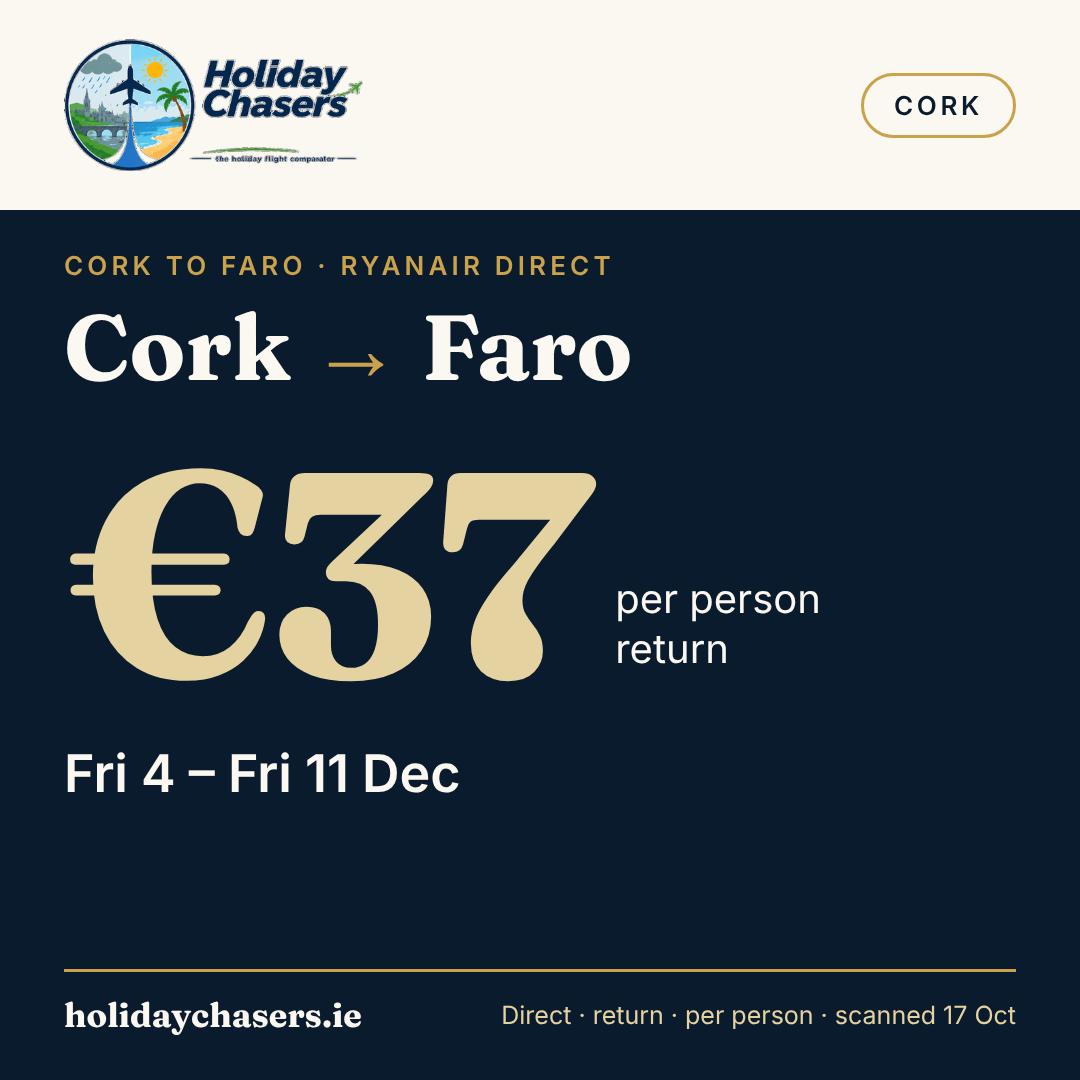
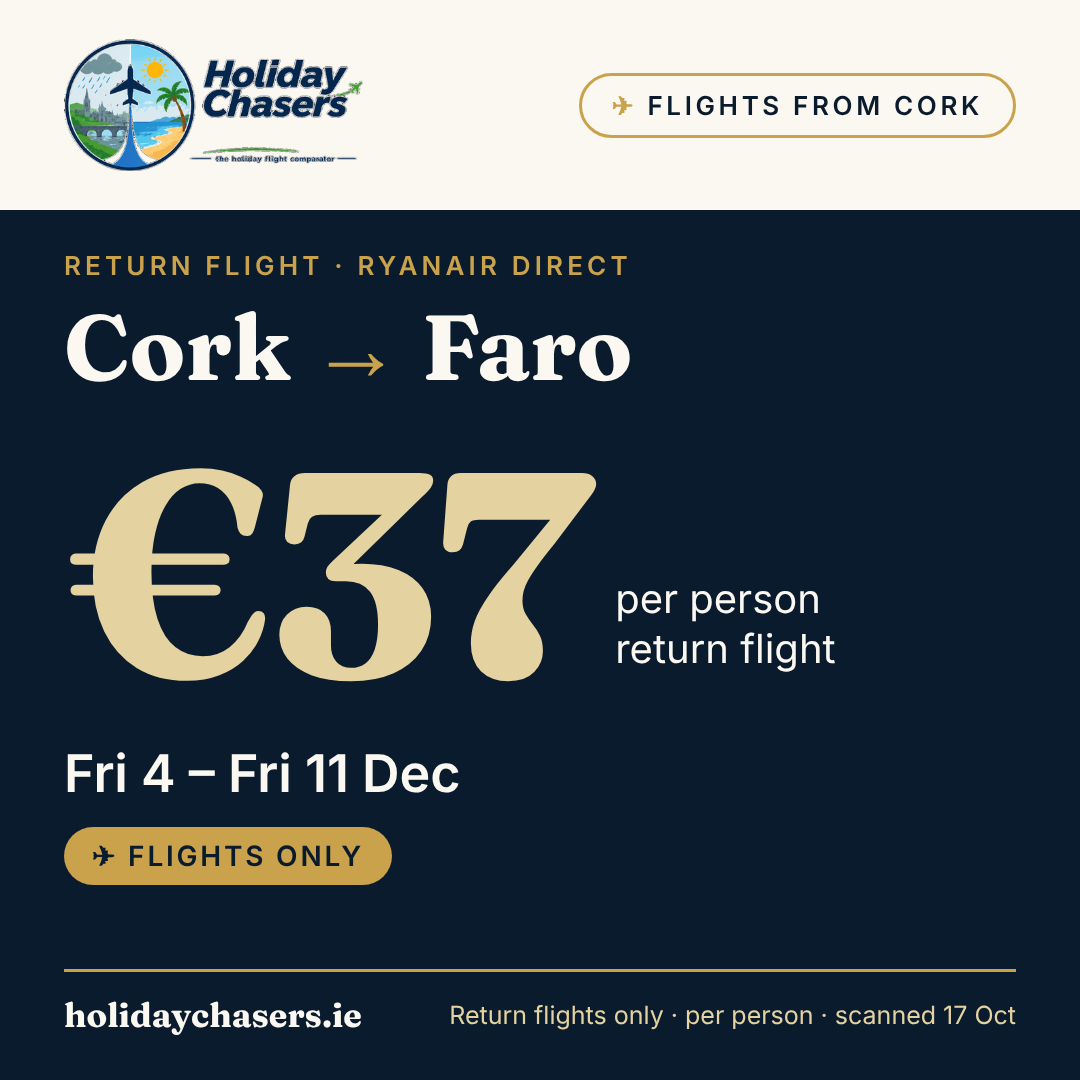
Social posters: city photos (fetched from Wikipedia, cached), 'flights only' labelling
Claude-Session: https://claude.ai/code/session_01EtrwGZWNdJyufdjgrD8G9R

diff --git a/social/generate_posts.py b/social/generate_posts.py
@@ -9,7 +9,7 @@ Run after refresh_deals.py. Needs Playwright + Chromium to render posters
 (pip install playwright && playwright install chromium).
 Nothing is posted automatically: the Chrome extension (or you) posts.
 """
-import json, os, datetime as dt, html, shutil, hashlib
+import json, os, re, datetime as dt, html, shutil, hashlib, io
 
 ROOT = os.path.dirname(os.path.abspath(__file__))
 REPO = os.path.dirname(ROOT)
@@ -17,6 +17,7 @@ CACHE = os.path.join(REPO, "deals_cache.json")
 OUT = os.path.join(ROOT, "out")
 BUILD = os.path.join(ROOT, "_build")
 SITE = "holidaychasers.ie"
+CITIES = os.path.join(ROOT, "assets", "cities")   # <CODE>.jpg; drop your own photo here to override
 
 ORIGIN = {"ORK": "Cork", "DUB": "Dublin"}
 SUN = {"ACE", "LPA", "FUE", "TFS", "FAO", "AGP", "ALC", "PMI", "MLA", "SVQ", "VLC"}
@@ -79,6 +80,56 @@ def link(c):
     return f"{SITE}/?dest={c['code']}&from={c['ap']}&utm_source=facebook&utm_medium=social"
 
 
+# ── city photos ─────────────────────────────────────────────────────────────
+def wiki_titles():
+    """code -> Wikipedia article title, read from app.js so there is one source of truth."""
+    try:
+        js = open(os.path.join(REPO, "app.js"), encoding="utf-8").read()
+        block = js[js.index("const CITY_WIKI"):]
+        block = block[:block.index("};")]
+        return dict(re.findall(r'([A-Z]{3}):"([^"]+)"', block))
+    except Exception:
+        return {}
+
+
+def city_photo(code, city):
+    """Path to a cached photo for this destination, downloading from Wikipedia once. None if unavailable."""
+    path = os.path.join(CITIES, f"{code}.jpg")
+    if os.path.exists(path):
+        return path
+    try:
+        import requests
+        from PIL import Image
+        title = wiki_titles().get(code) or city.replace(" ", "_")
+        hdr = {"User-Agent": "HolidayChasersBot/1.0 (https://holidaychasers.ie; info@holidaychasers.ie)"}
+        r = requests.get("https://en.wikipedia.org/api/rest_v1/page/summary/" + requests.utils.quote(title, safe="_,()"),
+                         headers=hdr, timeout=20)
+        r.raise_for_status()
+        j = r.json()
+        src = (j.get("thumbnail") or {}).get("source") or (j.get("originalimage") or {}).get("source")
+        if not src:
+            return None
+        src = re.sub(r"/\d+px-", "/1280px-", src)
+        img = requests.get(src, headers=hdr, timeout=30)
+        img.raise_for_status()
+        im = Image.open(io.BytesIO(img.content)).convert("RGB")
+        if im.width < 700:                       # too small to look good full-bleed
+            return None
+        im.thumbnail((1280, 1280))
+        os.makedirs(CITIES, exist_ok=True)
+        im.save(path, quality=82, optimize=True)
+        print("  photo:", code, title, im.size)
+        return path
+    except Exception as ex:
+        print("  no photo for", code, "-", ex)
+        return None
+
+
+def bg_url(code, city):
+    p = city_photo(code, city)
+    return None if not p else "file://" + p
+
+
 # ── captions ────────────────────────────────────────────────────────────────
 def pickv(seed, options):
     h = int(hashlib.md5(seed.encode()).hexdigest(), 16)
@@ -88,20 +139,20 @@ def pickv(seed, options):
 def caption_hero(c, today):
     o = ORIGIN[c["ap"]]
     tag = pickv(c["code"] + str(today), [
-        "Direct, return, per person.",
+        "Direct flights, per-person fares.",
         "Real fare, checked this week.",
         "Book with the airline in a couple of clicks.",
     ])
-    return (f"From {o}: {c['city']} from €{c['price']} return per person, {fmt_range(c['dep'], c['ret'])}. "
-            f"{tag} {link(c)}")
+    return (f"✈ Return flights from {o} to {c['city']} from €{c['price']} per person, {fmt_range(c['dep'], c['ret'])}. "
+            f"Flights only. {tag} {link(c)}")
 
 
 def caption_cards(label, cs, today):
     a, b = cs[0], cs[1]
     o = ORIGIN[a["ap"]]
-    return (f"{label} from {o}: {a['city']} from €{a['price']} return per person, {fmt_range(a['dep'], a['ret'])}. "
+    return (f"✈ {label}, return flights from {o}: {a['city']} from €{a['price']} per person, {fmt_range(a['dep'], a['ret'])}. "
             f"Or {b['city']} from €{b['price']} ({fmt_range(b['dep'], b['ret'])}). "
-            f"Fares change, so check the live deal: {link(a)}")
+            f"Flights only. Fares change, so check the live deal: {link(a)}")
 
 
 # ── posters ─────────────────────────────────────────────────────────────────
@@ -126,14 +177,25 @@ body{width:1080px;height:1080px;background:#0A1B2E;font-family:Inter,sans-serif;
 .card .c{font:700 58px/1.1 Fraunces,serif}.card .c div{font:400 30px Inter;color:#E4D2A0;margin-top:8px}
 .card .p{font:700 120px/1 Fraunces,serif;color:#E4D2A0;text-align:right}.card .p div{font:400 24px Inter;color:#FBF8F1;margin-top:4px}
 .h{font:700 78px/1.08 Fraunces,serif;margin-top:20px}
+.photo{position:absolute;left:0;right:0;top:210px;bottom:0;background-size:cover;background-position:center}
+.shade{position:absolute;left:0;right:0;top:210px;bottom:0;background:linear-gradient(180deg,rgba(10,27,46,.55) 0%,rgba(10,27,46,.35) 35%,rgba(10,27,46,.88) 78%,rgba(10,27,46,.96) 100%)}
+.main,.foot{z-index:2}
+.pill i{font-style:normal;color:#C9A24B}
+.badge{display:inline-block;align-self:flex-start;margin-top:22px;font:600 28px Inter;letter-spacing:.1em;text-transform:uppercase;background:#C9A24B;color:#0A1B2E;border-radius:50px;padding:12px 28px}
+.card{position:relative;overflow:hidden;background-size:cover;background-position:center}
+.card:before{content:"";position:absolute;inset:0;background:linear-gradient(90deg,rgba(10,27,46,.94) 0%,rgba(10,27,46,.7) 55%,rgba(10,27,46,.5) 100%)}
+.card>*{position:relative}
+.credit{font:400 17px Inter;color:#E4D2A0;opacity:.75;position:absolute;right:64px;bottom:12px;z-index:2}
 """
 
 
-def page(note, ctx, body):
+def page(note, ctx, body, bg=None):
+    photo = f"<div class=photo style=\"background-image:url('{bg}')\"></div><div class=shade></div>" if bg else ""
+    credit = "<div class=credit>Photo: Wikimedia Commons</div>" if bg else ""
     return (f"<!doctype html><meta charset=utf-8><style>{CSS}</style><body>"
-            f"<div class=top><img src=../assets/logo.png><div class=pill>{html.escape(ctx)}</div></div>"
-            f"<div class=main>{body}</div>"
-            f"<div class=foot><b>{SITE}</b><span>{html.escape(note)}</span></div></body>")
+            f"<div class=top><img src=../assets/logo.png><div class=pill><i>✈</i> Flights from {html.escape(ctx)}</div></div>"
+            f"{photo}<div class=main>{body}</div>"
+            f"<div class=foot><b>{SITE}</b><span>{html.escape(note)}</span></div>{credit}</body>")
 
 
 def e(s):
@@ -144,19 +206,25 @@ def poster_hero(c, note):
     o = ORIGIN[c["ap"]]
     how = "direct" if c["stops"] == 0 else f"{c['stops']} stop"
     airline = f" · {c['airline']} {how}" if c["airline"] else f" · {how}"
-    body = (f"<div class=eyebrow>{e(o)} to {e(c['city'])}{e(airline)}</div>"
+    body = (f"<div class=eyebrow>Return flight{e(airline)}</div>"
             f"<div class=route>{e(o)} <span>→</span> {e(c['city'])}</div>"
-            f"<div class=price>€{c['price']}<small>per person<br>return</small></div>"
-            f"<div class=dates>{e(fmt_range(c['dep'], c['ret']))}</div>")
-    return page(note, o, body)
+            f"<div class=price>€{c['price']}<small>per person<br>return flight</small></div>"
+            f"<div class=dates>{e(fmt_range(c['dep'], c['ret']))}</div>"
+            f"<div class=badge>✈ Flights only</div>")
+    return page(note, o, body, bg_url(c["code"], c["city"]))
 
 
 def poster_cards(eyebrow, headline_a, headline_b, cs, note):
-    cards = "".join(
-        f"<div class=card><div class=c>{e(c['city'])}<div>{e(fmt_range(c['dep'], c['ret']))}</div></div>"
-        f"<div class=p>€{c['price']}<div>per person return</div></div></div>" for c in cs)
-    body = f"<div class=eyebrow>{e(eyebrow)}</div><div class=h>{e(headline_a)}<br><span>from €{cs[0]['price']}</span></div>{cards}"
-    return page(note, ORIGIN[cs[0]["ap"]], body)
+    cards, any_photo = "", False
+    for c in cs:
+        u = bg_url(c["code"], c["city"]); any_photo |= bool(u)
+        st = f" style=\"background-image:url('{u}')\"" if u else ""
+        cards += (f"<div class=card{st}><div class=c>{e(c['city'])}<div>{e(fmt_range(c['dep'], c['ret']))}</div></div>"
+                  f"<div class=p>€{c['price']}<div>per person · return flight</div></div></div>")
+    body = (f"<div class=eyebrow>{e(eyebrow)}</div><div class=h>{e(headline_a)}<br><span>flights from €{cs[0]['price']}</span></div>"
+            f"{cards}<div class=badge>✈ Flights only · no hotel</div>")
+    html_ = page(note, ORIGIN[cs[0]["ap"]], body)
+    return html_.replace("</body>", "<div class=credit>Photos: Wikimedia Commons</div></body>") if any_photo else html_
 
 
 # ── main ────────────────────────────────────────────────────────────────────
@@ -164,7 +232,7 @@ def build(today=None):
     cache = json.load(open(CACHE, encoding="utf-8"))
     today = today or dt.date.today()
     scanned = cache.get("updated_utc", "")[:10]
-    note = "Direct · return · per person · scanned " + (d(scanned).strftime("%-d %b") if scanned else "recently")
+    note = "Return flights only · per person · scanned " + (d(scanned).strftime("%-d %b") if scanned else "recently")
     cands = candidates(cache, today)
 
     posts, pages = [], {}
